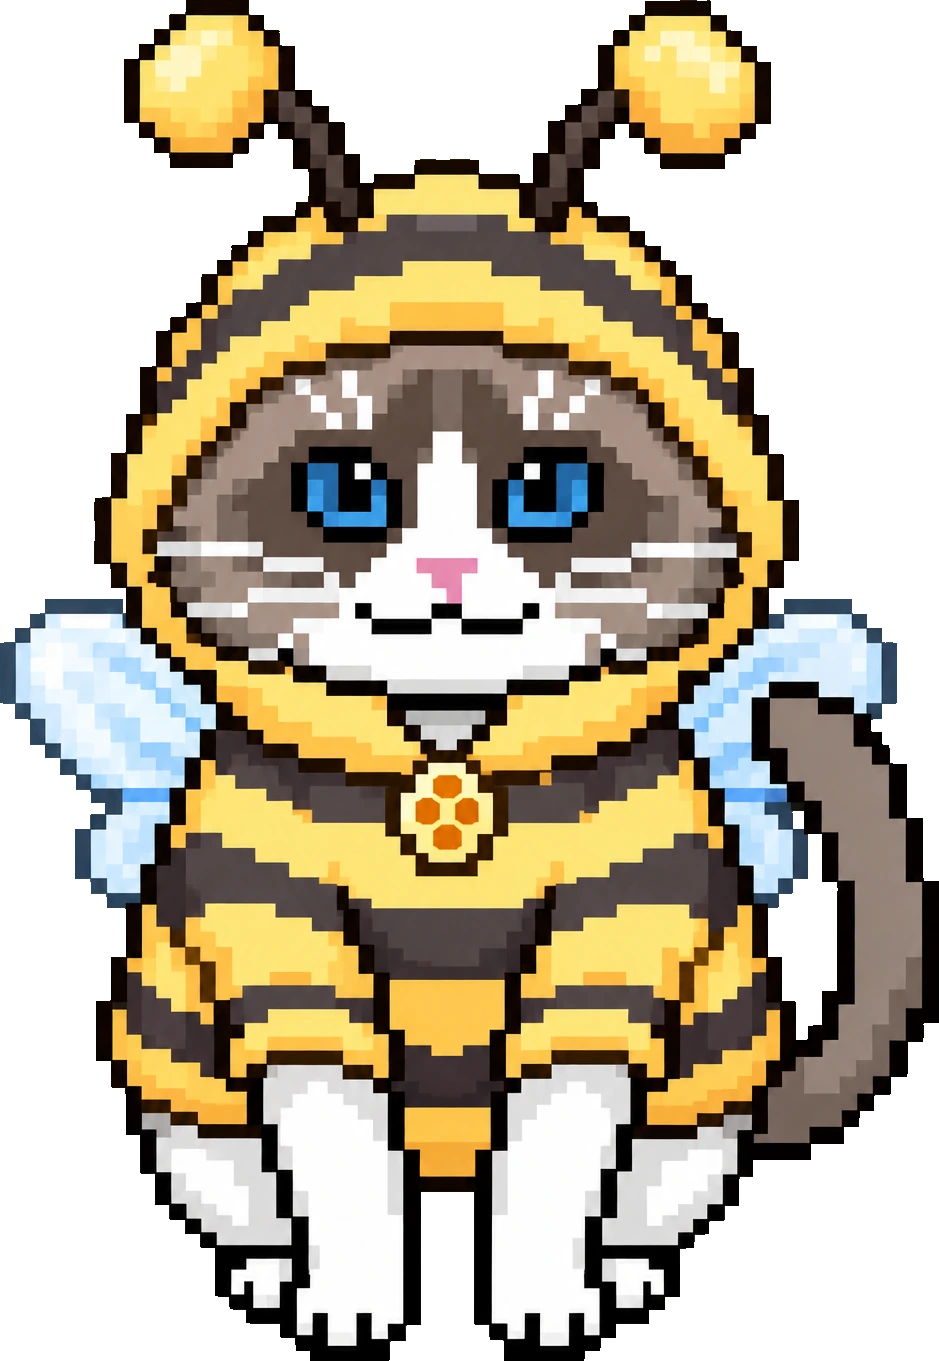
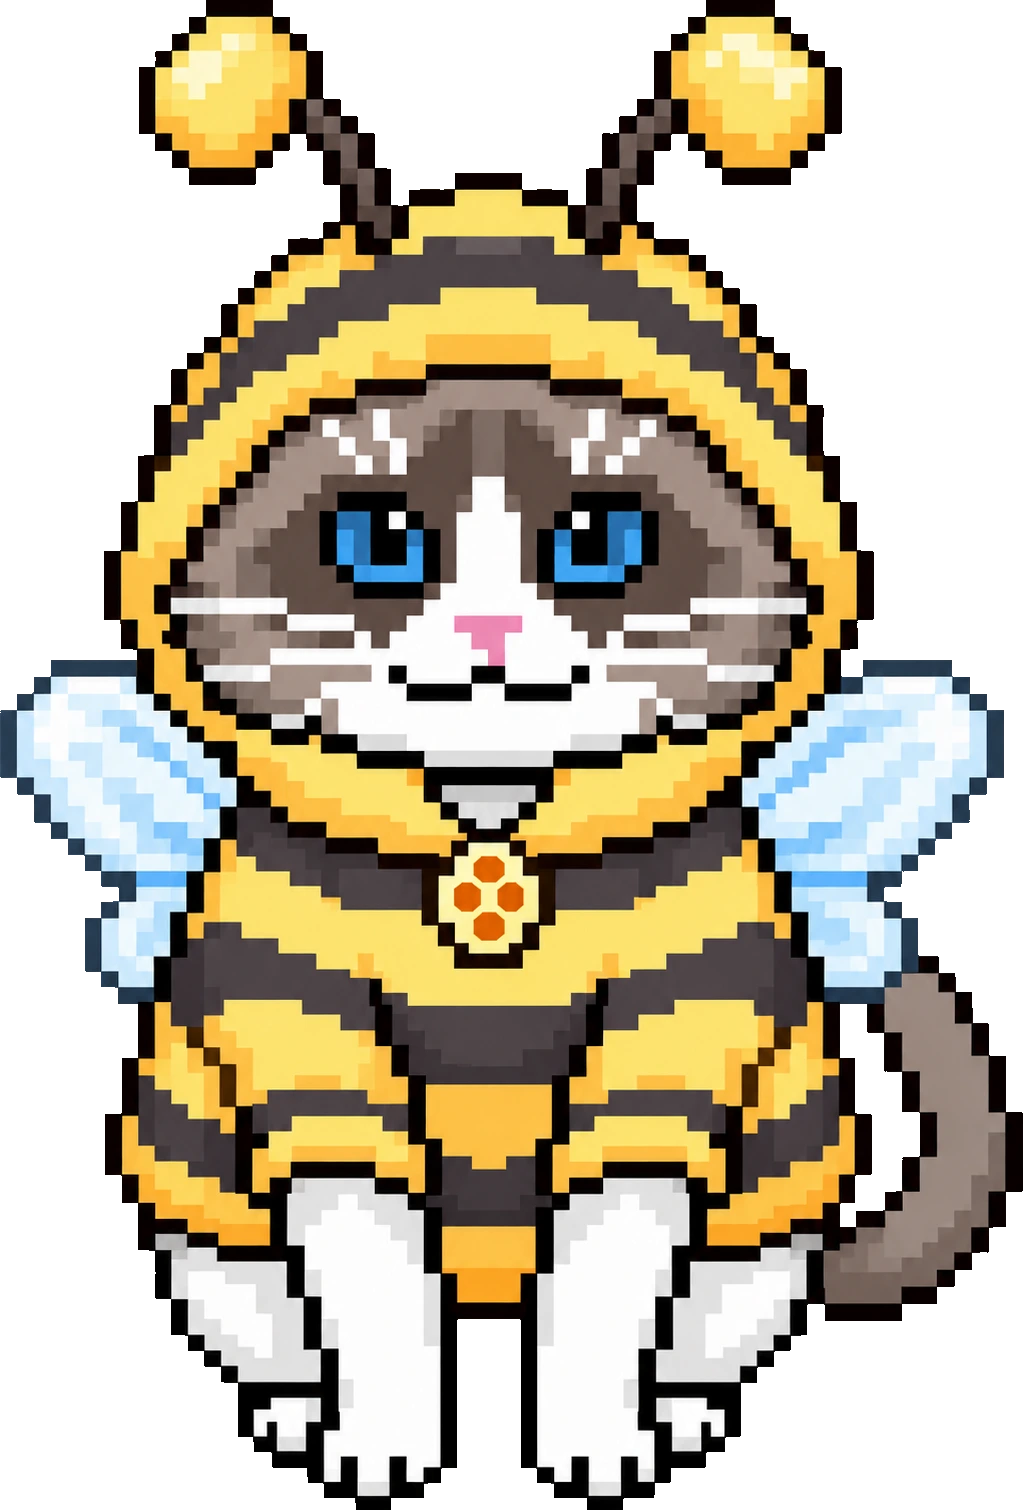
Give Creature Costumes a capsule opening and restore Bee wings

diff --git a/src/components/gacha/GachaCreatureOpening.tsx b/src/components/gacha/GachaCreatureOpening.tsx
@@ -1,0 +1,225 @@
+'use client'
+
+import { useCallback, useEffect, useRef } from 'react'
+import type { GachaRarity } from '@/types'
+import { useReducedMotion } from '@/hooks/useReducedMotion'
+import { playSound } from '@/lib/sounds'
+import TapToSkip from './TapToSkip'
+
+const TAU = Math.PI * 2
+const PALETTE: Record<GachaRarity, { shell: string; light: string; ink: string }> = {
+  common: { shell: '#83B98B', light: '#C0E3B6', ink: '#517453' },
+  rare: { shell: '#83B98B', light: '#C0E3B6', ink: '#517453' },
+  epic: { shell: '#AE8BD2', light: '#E2CBF3', ink: '#765697' },
+  legendary: { shell: '#E8B343', light: '#FFE69D', ink: '#A97524' },
+}
+const clamp = (n: number) => Math.max(0, Math.min(1, n))
+const easeOut = (n: number) => 1 - Math.pow(1 - n, 3)
+
+function paw(ctx: CanvasRenderingContext2D, size: number) {
+  ctx.save()
+  ctx.scale(size, size)
+  ctx.beginPath()
+  ctx.moveTo(-0.44, 0.25)
+  ctx.bezierCurveTo(-0.7, 0.58, -0.48, 0.86, -0.17, 0.73)
+  ctx.bezierCurveTo(0, 0.65, 0.13, 0.65, 0.3, 0.73)
+  ctx.bezierCurveTo(0.63, 0.86, 0.79, 0.53, 0.51, 0.25)
+  ctx.bezierCurveTo(0.14, -0.19, -0.09, -0.19, -0.44, 0.25)
+  ctx.fill()
+  for (const [x, y, turn] of [[-0.7, -0.18, -0.4], [-0.27, -0.53, -0.12], [0.25, -0.53, 0.12], [0.7, -0.18, 0.4]]) {
+    ctx.beginPath(); ctx.ellipse(x, y, 0.2, 0.27, turn, 0, TAU); ctx.fill()
+  }
+  ctx.restore()
+}
+
+function star(ctx: CanvasRenderingContext2D, size: number) {
+  ctx.beginPath()
+  for (let i = 0; i < 8; i++) {
+    const a = i * Math.PI / 4, r = size * (i % 2 ? 0.29 : 1)
+    const x = Math.cos(a) * r, y = Math.sin(a) * r
+    if (i === 0) ctx.moveTo(x, y); else ctx.lineTo(x, y)
+  }
+  ctx.closePath(); ctx.fill()
+}
+
+interface Props {
+  /** null keeps the capsule closed until the paid pull has resolved. */
+  rarity: GachaRarity | null
+  onDone: () => void
+}
+
+// One canvas, like the other drawn openings: no per-frame React updates or filters.
+export default function GachaCreatureOpening({ rarity, onDone }: Props) {
+  const reduced = useReducedMotion()
+  const rootRef = useRef<HTMLDivElement>(null)
+  const canvasRef = useRef<HTMLCanvasElement>(null)
+  const rarityRef = useRef(rarity)
+  const doneRef = useRef(onDone)
+  const startRef = useRef(0)
+  const resolvedRef = useRef<number | null>(null)
+  const finishedRef = useRef(false)
+  const openedRef = useRef(false)
+  rarityRef.current = rarity
+  doneRef.current = onDone
+
+  const finish = useCallback(() => {
+    if (finishedRef.current) return
+    finishedRef.current = true
+    doneRef.current()
+  }, [])
+
+  useEffect(() => {
+    const previous = document.activeElement as HTMLElement | null
+    rootRef.current?.focus({ preventScroll: true })
+    return () => { if (previous?.isConnected) previous.focus({ preventScroll: true }) }
+  }, [])
+
+  useEffect(() => {
+    if (rarity !== null && resolvedRef.current === null) resolvedRef.current = performance.now()
+  }, [rarity])
+
+  useEffect(() => {
+    const canvas = canvasRef.current
+    const ctx = canvas?.getContext('2d')
+    if (!canvas || !ctx) {
+      const timer = window.setTimeout(finish, 500)
+      return () => clearTimeout(timer)
+    }
+    if (!startRef.current) startRef.current = performance.now()
+    let frame = 0, width = 0, height = 0, dpr = 1
+    const resize = () => {
+      const box = canvas.getBoundingClientRect()
+      width = box.width; height = box.height
+      dpr = Math.min(window.devicePixelRatio || 1, 2)
+      canvas.width = Math.round(width * dpr); canvas.height = Math.round(height * dpr)
+    }
+    const observer = new ResizeObserver(resize)
+    observer.observe(canvas)
+    resize()
+
+    const draw = (now: number) => {
+      if (finishedRef.current) return
+      const elapsed = now - startRef.current
+      const intro = reduced ? 220 : 980, shake = reduced ? 100 : 640
+      const opening = reduced ? 150 : 820, fade = reduced ? 160 : 320
+      const shakeAt = resolvedRef.current === null ? Infinity : Math.max(intro, resolvedRef.current - startRef.current)
+      const openAt = shakeAt + shake
+      if (elapsed >= openAt + opening + fade) { finish(); return }
+      const pop = clamp((elapsed - openAt) / opening)
+      const split = easeOut(pop)
+      const leaving = clamp((elapsed - openAt - opening) / fade)
+      const winding = clamp((elapsed - shakeAt) / shake)
+      const pal = PALETTE[rarityRef.current ?? 'rare']
+      const unit = Math.min(width / 390, height / 740, 1.3)
+      const radius = 82 * unit, cx = width / 2, cy = height * 0.53
+      let drop = 0, squash = 1, turn = 0
+      if (!reduced) {
+        if (elapsed < 460) drop = -height * 0.66 * (1 - Math.pow(elapsed / 460, 2))
+        else if (elapsed < 760) drop = -52 * unit * Math.sin((elapsed - 460) / 300 * Math.PI)
+        else if (elapsed < 980) drop = -14 * unit * Math.sin((elapsed - 760) / 220 * Math.PI)
+        squash = 1 - 0.13 * Math.exp(-Math.pow((elapsed - 475) / 65, 2))
+        turn = Math.sin(elapsed * 0.028) * 0.11 * winding * (1 - split)
+      }
+      ctx.setTransform(dpr, 0, 0, dpr, 0, 0)
+      ctx.clearRect(0, 0, width, height)
+      ctx.lineJoin = 'round'; ctx.lineCap = 'round'
+
+      // A small floor shadow stays planted while the capsule bounces above it.
+      ctx.fillStyle = 'rgba(31,46,32,0.22)'
+      ctx.globalAlpha = (1 - split) * clamp(1 + drop / height)
+      ctx.beginPath(); ctx.ellipse(cx, cy + radius + 13 * unit, radius * 0.76, 10 * unit, 0, 0, TAU); ctx.fill()
+      ctx.globalAlpha = 1
+
+      if (pop > 0 && !reduced) {
+        // Rarity-coloured paper stars and paw stamps, not a screen-wide flash.
+        for (let i = 0; i < 22; i++) {
+          const p = clamp((pop - (i % 4) * 0.035) / 0.85)
+          const angle = i * 2.39996
+          const distance = (70 + (i % 5) * 29) * unit * easeOut(p)
+          ctx.save()
+          ctx.translate(cx + Math.cos(angle) * distance, cy + Math.sin(angle) * distance + 52 * unit * p * p)
+          ctx.rotate(angle + p * 1.6)
+          ctx.globalAlpha = Math.sin(Math.PI * p) * (1 - leaving)
+          ctx.fillStyle = [pal.light, '#FFF4D5', '#F3B4AA', '#ACD8AD'][i % 4]
+          if (i % 6 === 0) paw(ctx, 9 * unit); else star(ctx, (5 + i % 4 * 2) * unit)
+          ctx.restore()
+        }
+      }
+
+      ctx.save()
+      ctx.translate(cx, cy + drop)
+      ctx.rotate(turn)
+      ctx.scale(1 / squash, squash)
+      ctx.globalAlpha = 1 - leaving
+      ctx.lineWidth = 3 * unit
+      ctx.strokeStyle = pal.ink
+
+      // The opaque lower cup; the prize stays hidden until the normal reveal.
+      ctx.save()
+      ctx.translate(reduced ? 0 : split * radius * 0.28, split * radius * (reduced ? 0.12 : 0.8))
+      ctx.rotate(reduced ? 0 : split * 0.15)
+      const cream = ctx.createLinearGradient(0, 0, 0, radius)
+      cream.addColorStop(0, '#FFF4DB'); cream.addColorStop(1, '#DECAA3')
+      ctx.fillStyle = cream
+      ctx.beginPath()
+      ctx.arc(0, 0, radius, 0, Math.PI)
+      ctx.ellipse(0, 0, radius, radius * 0.16, 0, Math.PI, TAU)
+      ctx.closePath(); ctx.fill(); ctx.stroke()
+      ctx.fillStyle = '#F9EBC9'
+      ctx.beginPath(); ctx.ellipse(0, 0, radius, radius * 0.16, 0, 0, TAU); ctx.fill(); ctx.stroke()
+      ctx.restore()
+
+      // The paw-patterned lid tips back, exposing a warm, lit seam.
+      ctx.save()
+      ctx.translate(reduced ? 0 : -radius * 0.4 * split, -radius * (reduced ? 0.16 : 1.85) * split)
+      ctx.rotate(reduced ? 0 : -0.34 * split)
+      const shell = ctx.createLinearGradient(-radius, -radius, radius, 0)
+      shell.addColorStop(0, pal.light); shell.addColorStop(1, pal.shell)
+      ctx.fillStyle = shell
+      ctx.beginPath()
+      ctx.arc(0, 0, radius, Math.PI, TAU)
+      ctx.ellipse(0, 0, radius, radius * 0.16, 0, 0, Math.PI)
+      ctx.closePath(); ctx.fill(); ctx.stroke()
+      ctx.fillStyle = '#FFF2CF'
+      ctx.save(); ctx.translate(0, -radius * 0.46); paw(ctx, radius * 0.35); ctx.restore()
+      ctx.fillStyle = 'rgba(255,255,255,0.56)'
+      ctx.beginPath(); ctx.ellipse(-radius * 0.54, -radius * 0.52, radius * 0.11, radius * 0.23, 0.65, 0, TAU); ctx.fill()
+      ctx.strokeStyle = '#FFF7E1'; ctx.lineWidth = 7 * unit
+      ctx.beginPath(); ctx.ellipse(0, 0, radius - 3 * unit, radius * 0.16, 0, 0, Math.PI); ctx.stroke()
+      ctx.fillStyle = pal.shell; ctx.strokeStyle = pal.ink; ctx.lineWidth = 2 * unit
+      ctx.beginPath(); ctx.roundRect(-10 * unit, 8 * unit, 20 * unit, 12 * unit, 3 * unit); ctx.fill(); ctx.stroke()
+      ctx.restore()
+      ctx.restore()
+
+      if (leaving > 0) {
+        ctx.globalAlpha = leaving
+        ctx.fillStyle = '#EAF4EC'; ctx.fillRect(0, 0, width, height)
+      }
+      ctx.globalAlpha = 1
+      if (elapsed >= openAt && !openedRef.current) {
+        openedRef.current = true
+        playSound('gift_open')
+      }
+      frame = requestAnimationFrame(draw)
+    }
+    frame = requestAnimationFrame(draw)
+    return () => { cancelAnimationFrame(frame); observer.disconnect() }
+  }, [finish, reduced])
+
+  return (
+    <div ref={rootRef} role="button" tabIndex={0} aria-label="Skip capsule opening"
+      className="meadow-root fixed inset-0 z-[80] overflow-hidden m-focus"
+      style={{ background: '#3E5142', cursor: 'pointer' }}
+      onClick={finish} onKeyDown={event => {
+        if (event.key === 'Tab') event.preventDefault()
+        if (event.key === 'Enter' || event.key === ' ' || event.key === 'Escape') { event.preventDefault(); finish() }
+      }}>
+      <div className="absolute inset-0" style={{
+        backgroundImage: 'url(/gacha_creatures.webp?v=1)', backgroundSize: 'cover', backgroundPosition: 'center',
+      }} />
+      <div className="absolute inset-0" style={{ background: 'rgba(28,45,32,0.62)' }} />
+      <canvas ref={canvasRef} aria-hidden className="absolute inset-0 h-full w-full" />
+      <TapToSkip />
+    </div>
+  )
+}

diff --git a/src/lib/skinsData.ts b/src/lib/skinsData.ts
@@ -59,7 +59,7 @@ export const SKIN_DATA: SkinRenderData[] = [
   { id: 'boba', name: "Boba Eren", rarity: 'legendary', set: 'food', aspect: 0.668, src: '/skins/boba_notail.webp', tailSrc: '/skins/boba_tail.webp', tailOrigin: '70.8% 75.2%', thumb: '/skins/boba.webp', eyes: {"maskLeftA":"33.44%","maskLeftB":"49.73%","maskTop":"21.71%","maskW":"7.6%","maskH":"8.6%","lidLeftA":"32.98%","lidLeftB":"49.27%","lidTop":"21.31%","lidWidth":"8.51%","lidHeight":"9.4%","glintLeftA":"45.87%","glintLeftB":"18.92%","glintTopA":"14.66%","glintTopB":"14.52%","glintW":"26%"} },
   { id: 'lemon2', name: "Lemon Dress Eren", rarity: 'rare', set: 'food', aspect: 0.719, src: '/skins/lemon2_notail.webp', tailSrc: '/skins/lemon2_tail.webp', tailOrigin: '71.9% 81%', thumb: '/skins/lemon2.webp', eyes: {"maskLeftA":"32.16%","maskLeftB":"49.78%","maskTop":"24.98%","maskW":"7.6%","maskH":"8.6%","lidLeftA":"31.71%","lidLeftB":"49.33%","lidTop":"24.58%","lidWidth":"8.51%","lidHeight":"9.4%","glintLeftA":"42.95%","glintLeftB":"17.5%","glintTopA":"12.49%","glintTopB":"12.51%","glintW":"26%"} },
   { id: 'applecandy2', name: "Candy Apple Suit Eren", rarity: 'epic', set: 'food', aspect: 0.651, src: '/skins/applecandy2_notail.webp', tailSrc: '/skins/applecandy2_tail.webp', tailOrigin: '67.8% 83.2%', thumb: '/skins/applecandy2.webp', eyes: {"maskLeftA":"33.31%","maskLeftB":"49.14%","maskTop":"31.59%","maskW":"7.6%","maskH":"8.6%","lidLeftA":"32.86%","lidLeftB":"48.69%","lidTop":"31.19%","lidWidth":"8.51%","lidHeight":"9.4%","glintLeftA":"39.55%","glintLeftB":"19.21%","glintTopA":"15.19%","glintTopB":"15.09%","glintW":"26%"} },
-  { id: 'bee', name: "Bee Eren", rarity: 'rare', set: 'creatures', aspect: 0.69, src: '/skins/bee_notail.webp', tailSrc: '/skins/bee_tail.webp', tailOrigin: '71.5% 80.5%', thumb: '/skins/bee.webp', eyes: {"maskLeftA":"37.16%","maskLeftB":"51.93%","maskTop":"32.03%","maskW":"7.6%","maskH":"8.6%","lidLeftA":"36.71%","lidLeftB":"51.48%","lidTop":"31.63%","lidWidth":"8.51%","lidHeight":"9.4%","glintLeftA":"52%","glintLeftB":"21.56%","glintTopA":"18.52%","glintTopB":"18.49%","glintW":"26%"} },
+  { id: 'bee', name: "Bee Eren", rarity: 'rare', set: 'creatures', aspect: 0.677, src: '/skins/bee_notail.webp', tailSrc: '/skins/bee_tail.webp', tailOrigin: '69.4% 82.9%', thumb: '/skins/bee.webp', eyes: {"maskLeftA":"37.46%","maskLeftB":"51.9%","maskTop":"31.86%","maskW":"7.6%","maskH":"8.6%","lidLeftA":"37%","lidLeftB":"51.44%","lidTop":"31.46%","lidWidth":"8.51%","lidHeight":"9.4%","glintLeftA":"52.08%","glintLeftB":"21.78%","glintTopA":"18.54%","glintTopB":"18.49%","glintW":"26%"} },
   { id: 'lobster', name: "Lobster Eren", rarity: 'epic', set: 'creatures', aspect: 0.724, src: '/skins/lobster_notail.webp', tailSrc: '/skins/lobster_tail.webp', tailOrigin: '69.7% 87.1%', thumb: '/skins/lobster.webp', eyes: {"maskLeftA":"37.39%","maskLeftB":"54.01%","maskTop":"32.76%","maskW":"7.6%","maskH":"8.6%","lidLeftA":"36.94%","lidLeftB":"53.56%","lidTop":"32.36%","lidWidth":"8.51%","lidHeight":"9.4%","glintLeftA":"53.76%","glintLeftB":"19.63%","glintTopA":"15.27%","glintTopB":"15.23%","glintW":"26%"} },
   { id: 'crystaldragon', name: "Crystal Dragon Eren", rarity: 'legendary', set: 'creatures', aspect: 0.806, src: '/skins/crystaldragon_notail.webp', tailSrc: '/skins/crystaldragon_tail.webp', tailOrigin: '76% 82.1%', thumb: '/skins/crystaldragon.webp', eyes: {"maskLeftA":"37.04%","maskLeftB":"55.21%","maskTop":"32%","maskW":"7.6%","maskH":"8.6%","lidLeftA":"36.58%","lidLeftB":"54.75%","lidTop":"31.6%","lidWidth":"8.51%","lidHeight":"9.4%","glintLeftA":"55.07%","glintLeftB":"17.81%","glintTopA":"13.94%","glintTopB":"13.97%","glintW":"26%"} },
   { id: 'snail', name: "Snail Eren", rarity: 'rare', set: 'creatures', aspect: 0.69, src: '/skins/snail_notail.webp', tailSrc: '/skins/snail_tail.webp', tailOrigin: '72% 83.4%', thumb: '/skins/snail.webp', eyes: {"maskLeftA":"39.77%","maskLeftB":"53.68%","maskTop":"33.99%","maskW":"7.6%","maskH":"8.6%","lidLeftA":"39.32%","lidLeftB":"53.22%","lidTop":"33.59%","lidWidth":"8.51%","lidHeight":"9.4%","glintLeftA":"51.33%","glintLeftB":"22.87%","glintTopA":"19.09%","glintTopB":"19.22%","glintW":"26%"} },

diff --git a/src/app/(app)/gacha/page.tsx b/src/app/(app)/gacha/page.tsx
@@ -15,6 +15,7 @@ import PullAnimation from '@/components/gacha/PullAnimation'
 import GachaEnergyOpening from '@/components/gacha/GachaEnergyOpening'
 import GachaOddsSheet from '@/components/gacha/GachaOddsSheet'
 import GachaFizzOpening from '@/components/gacha/GachaFizzOpening'
+import GachaCreatureOpening from '@/components/gacha/GachaCreatureOpening'
 import StarfallLoader from '@/components/gacha/StarfallLoader'
 import GachaHud from '@/components/gacha/GachaHud'
 import TapToSkip from '@/components/gacha/TapToSkip'
@@ -72,9 +73,10 @@ export default function GachaPage() {
   const [videoReady, setVideoReady] = useState(false) // opening video can render its first frame
   // Which drawn cinematic is on screen. Each machine has its own so they don't
   // feel like one box in different wallpaper: Snacks pours and fizzes, FoodSuits
-  // charges and detonates. Rarity stays null until the roll resolves — the idle
+  // charges and detonates, and Creatures bounces a patterned capsule open.
+  // Rarity stays null until the roll resolves — the idle
   // phase of either cinematic is what masks that wait.
-  const [cinematic, setCinematic] = useState<'fizz' | 'energy' | null>(null)
+  const [cinematic, setCinematic] = useState<'fizz' | 'energy' | 'creatures' | null>(null)
   const [cinematicRarity, setCinematicRarity] = useState<GachaRarity | null>(null)
   const openedWithVideo = useRef(false) // a video/energy opening this pull → skip the capsule
   const touchedDeck = useRef(false) // gate swipe SFX to real gestures (see onScroll)
@@ -265,7 +267,7 @@ export default function GachaPage() {
   }, [])
 
   async function handlePull(count: 1 | 10) {
-    if (pulling || openingVideo || pullResults) return
+    if (pulling || openingVideo || pullResults || cinematic) return
     const bannerId = PAGES[pageIdx].id
     // A single pull spends a free ticket whenever one is held — tickets are
     // earned pulls, so they're used before coins and stay usable at any coin
@@ -280,7 +282,9 @@ export default function GachaPage() {
     // rainbow video is no longer a generic opener — it belongs to the Rainbow
     // Monsta alone and plays after the cinematic (see endCinematic). Clothes'
     // opening is a rarity-tiered hit video, chosen after the roll (below).
-    const drawnOpening = bannerId === 'food' ? 'fizz' : bannerId === 'foodsuits' ? 'energy' : null
+    // Creature Costumes instead opens an opaque paw-patterned capsule.
+    const drawnOpening = bannerId === 'food' ? 'fizz'
+      : bannerId === 'foodsuits' ? 'energy' : bannerId === 'creatures' ? 'creatures' : null
     if (drawnOpening) {
       openedWithVideo.current = true
       setCinematicRarity(null)
@@ -326,7 +330,7 @@ export default function GachaPage() {
     if (drawnOpening) {
       // Hand the cinematic its rarity → it resolves and bursts.
       setCinematicRarity(best)
-    } else if (bannerId === 'animal' || bannerId === 'creatures') {
+    } else if (bannerId === 'animal') {
       // Clothes: open with the hit cinematic for the best drop in the batch.
       const vid = pickClothesHitVideo(best)
       if (vid) {
@@ -451,6 +455,7 @@ export default function GachaPage() {
       {/* ── FoodSuits energy cinematic (keyhole shine → rarity-tinted burst) ── */}
       {cinematic === 'fizz'   && <GachaFizzOpening   rarity={cinematicRarity} onDone={endCinematic} />}
       {cinematic === 'energy' && <GachaEnergyOpening rarity={cinematicRarity} onDone={endCinematic} />}
+      {cinematic === 'creatures' && <GachaCreatureOpening rarity={cinematicRarity} onDone={endCinematic} />}
 
       {/* ── Reveal ── */}
       {pullResults && !openingVideo && !cinematic && <PullAnimation results={pullResults} onDone={handlePullDone} skipCapsule={openedWithVideo.current} machine={pullMachine} />}

diff --git a/src/lib/skins.ts b/src/lib/skins.ts
@@ -59,7 +59,7 @@ export const CLASSIC_SKIN: SkinDef = {
 // Cache-buster for the skin PNGs. The SW serves images stale-while-revalidate,
 // so re-running the pipeline (which overwrites /skins/* in place) would keep
 // showing the OLD art — bump this whenever build_skins.cjs regenerates assets.
-const SKIN_V = '19'
+const SKIN_V = '20'
 const v = (p?: string) => (p ? `${p}?v=${SKIN_V}` : p)
 
 // Per-skin cat-body fraction override. The gacha skins are trimmed tight, so by

diff --git a/scripts/skin_sources/creatures/bee-correction.md b/scripts/skin_sources/creatures/bee-correction.md
@@ -1,0 +1,22 @@
+# Bee Wing Correction
+
+Updated with built-in image generation on 2026-10-25, then converted losslessly
+to `bee.webp`. The corrected wing remains on the foreground body, and the
+animated tail begins below its join (`tailYStart: 0.67`).
+
+## Edit Prompt
+
+Use case: precise-object-edit. Edit target: the supplied pixel-art Bee Eren game
+sprite. Fix ONLY the layering where the gray tail overlaps the pale blue
+right-hand wing (viewer right). Reconstruct that right wing as a complete, clean
+pale-blue butterfly/bee wing matching the left wing's size, shape and pixel
+shading, in FRONT of the tail. Lower the visible top of the gray tail so it
+starts below the bottom of the right wing and curves alongside the lower body,
+clearly behind the costume, without crossing or cutting into either wing. Keep
+the exact same front-facing seated ragdoll cat identity, blue eyes, face, smile,
+honeycomb pendant, yellow-black bee suit, antennae, legs, paws, colors, large
+square pixel-art cells, thick pixel outline, pose and framing. This is a surgical
+game-asset correction, not a new design. Full entire sprite on a genuinely
+transparent background, no floor, no scenery, no shadows outside the sprite,
+no text, no white sticker halo. Keep all details other than the right wing/tail
+junction unchanged.
